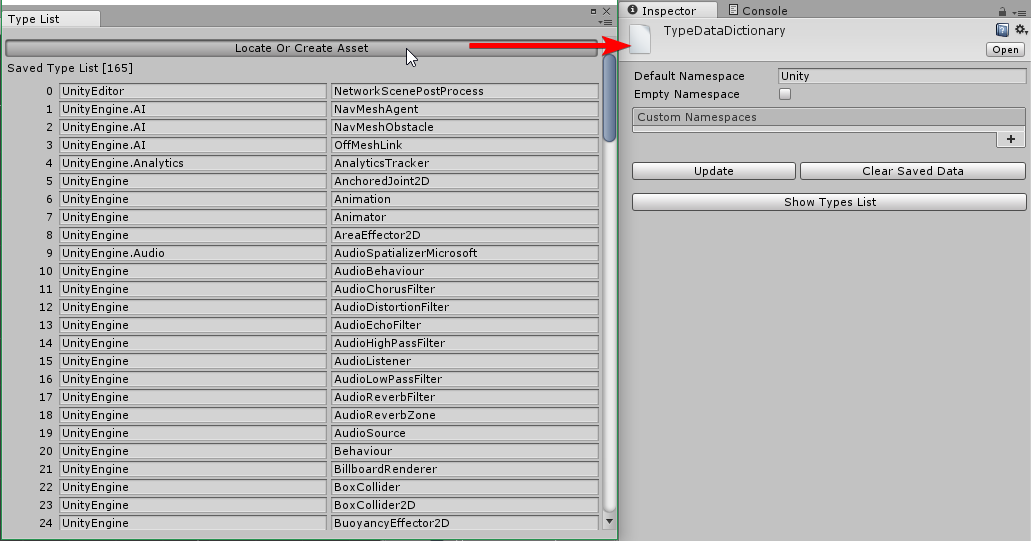
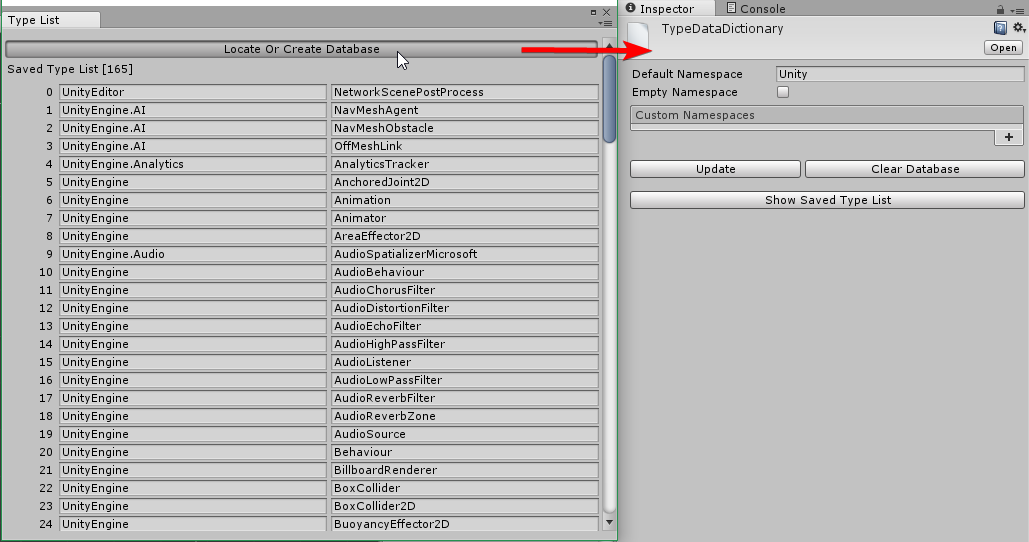
Update editor

Changed region(s): [[0.0, 0.0, 1.0, 0.976]]

diff --git a/Assets/ExtendedLibrary/Editor/TypeData/TypeDataDictionaryEditor.cs b/Assets/ExtendedLibrary/Editor/TypeData/TypeDataDictionaryEditor.cs
@@ -11,8 +11,8 @@ namespace ExtendedLibrary
         private const string DEFAULT_NAMESPACE_LABEL = "Default Namespace";
         private const string CUSTOM_NAMESPACES_LABEL = "Custom Namespaces";
         private const string UPDATE_BUTTON_LABEL = "Update";
-        private const string CLEAR_BUTTON_LABEL = "Clear Saved Data";
-        private const string SHOW_DATA_PANEL_LABEL = "Show Types List";
+        private const string CLEAR_BUTTON_LABEL = "Clear Database";
+        private const string SHOW_DATA_PANEL_LABEL = "Show Saved Type List";
 
         private static GUIContent EmptyNamespaceLabel = new GUIContent("Empty Namespace", "Include types that have no namespace");
 

diff --git a/Assets/ExtendedLibrary/Editor/TypeData/TypeDataDictionary.cs b/Assets/ExtendedLibrary/Editor/TypeData/TypeDataDictionary.cs
@@ -16,7 +16,7 @@ namespace ExtendedLibrary
 
         public static readonly string AssetPath = string.Format("{0}/{1}/{2}/TypeDataDictionary.asset", ROOT_FOLDER, SECONDARY_FOLDER, LIBRARY_FOLDER);
 
-        [MenuItem("Assets/Create/TypeData Dictionary", priority = 1)]
+        [MenuItem("Assets/Create/Types Database", priority = 1)]
         public static void LocateOrCreateAsset()
         {
             var asset = AssetDatabase.LoadAssetAtPath<TypeDataDictionary>(AssetPath);

diff --git a/Assets/ExtendedLibrary/Editor/Utilities/SavedTypeListWindow.cs b/Assets/ExtendedLibrary/Editor/Utilities/SavedTypeListWindow.cs
@@ -41,7 +41,7 @@ namespace ExtendedLibrary.Editor
             GUILayout.Space(10f);
             this.scrollPosition = GUILayout.BeginScrollView(this.scrollPosition);
 
-            if (GUILayout.Button("Locate Or Create Asset"))
+            if (GUILayout.Button("Locate Or Create Database"))
             {
                 TypeDataDictionary.LocateOrCreateAsset();
             }
